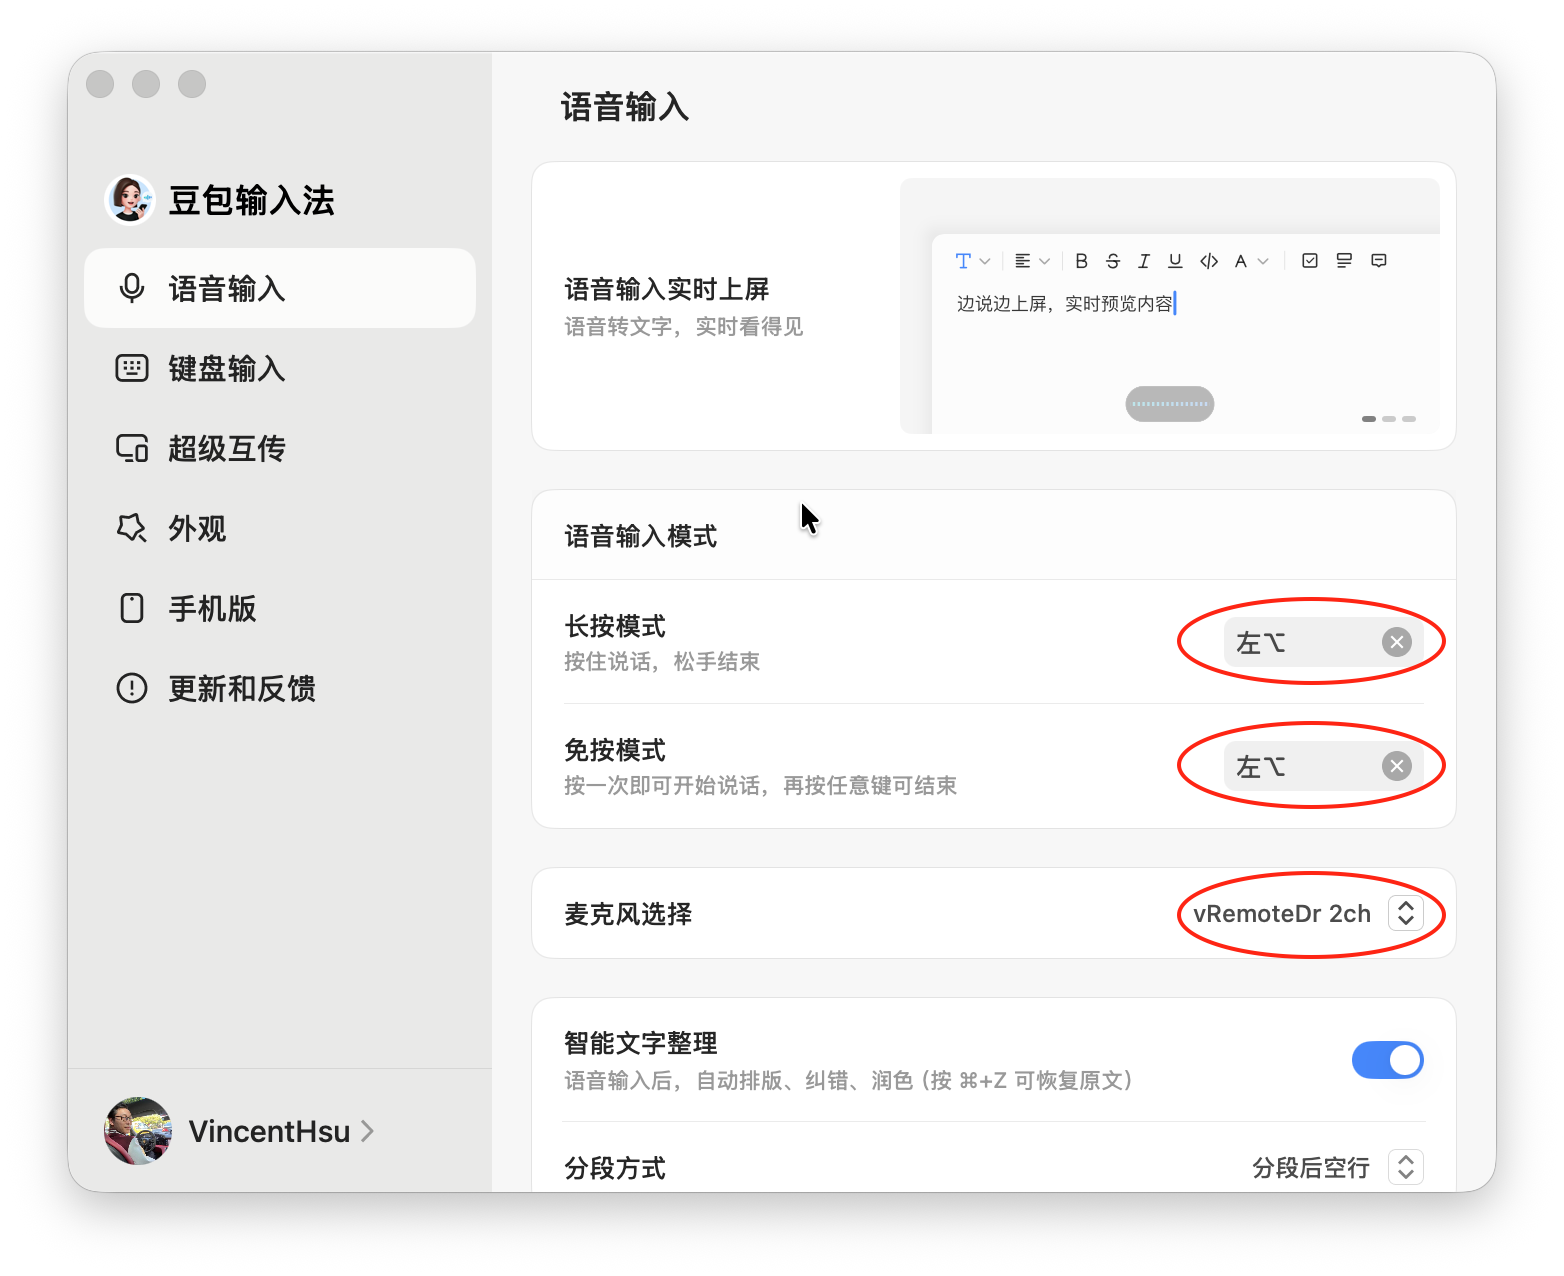
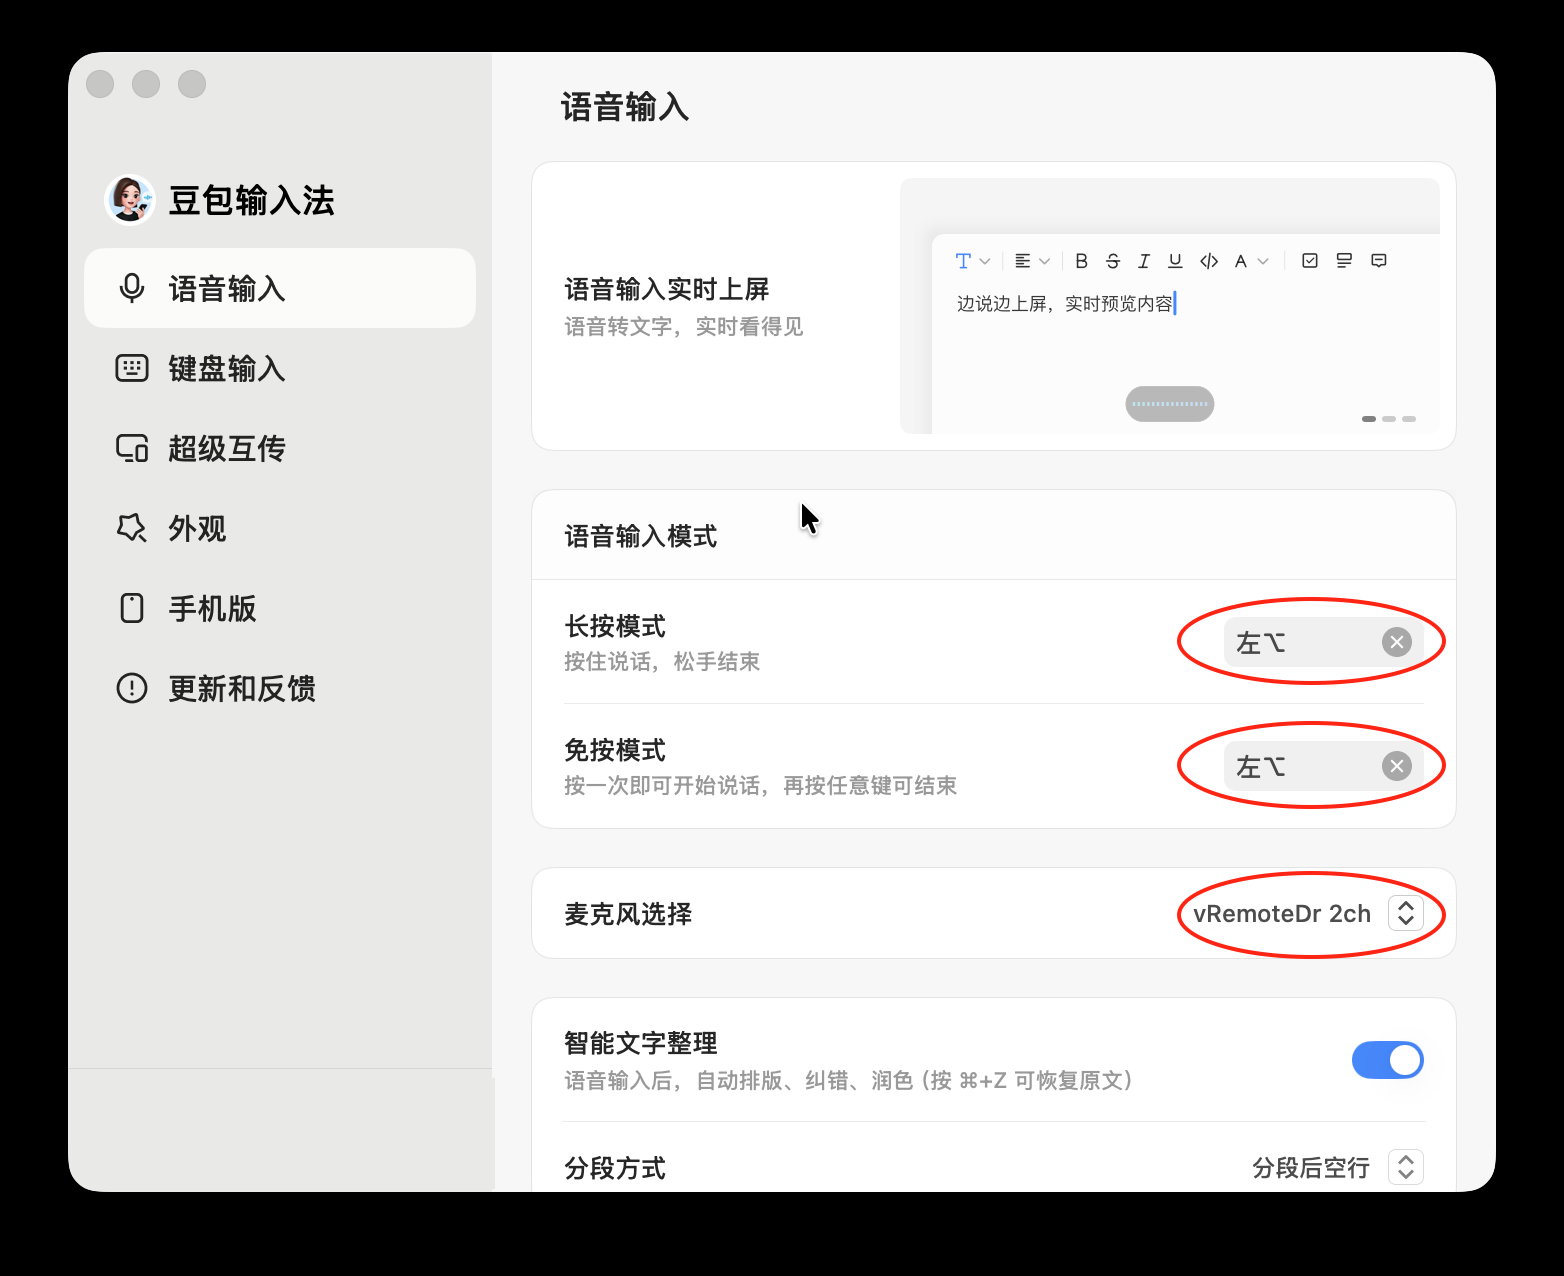
Site v2: full redesign per impeccable principles
- Aurora glow anchored to hero screenshot (content-relative, not viewport)
- System actions promoted to its own section (peak brightness band)
- Release copy de-coupled from power button
- Guide image doubaoinput3: login info removed, order fixed
- Glowing screenshot cards site-wide (green 20% border + 8% glow)

Changed region(s): [[0.0, 0.0, 1.0, 1.0]]

diff --git a/docs/index.html b/docs/index.html
@@ -14,6 +14,7 @@
     <a class="brand" href="#top" aria-label="vRemoter"><img src="assets/brand/vremoter-logo.png" alt=""><span>vRemoter</span></a>
     <nav class="top-actions" aria-label="Primary">
       <a href="#mapping" data-zh="按键映射" data-en="Key Mapping">按键映射</a>
+      <a href="#actions" data-zh="系统动作" data-en="System Actions">系统动作</a>
       <a href="#setup" data-zh="设置" data-en="Setup">设置</a>
       <a href="#release" data-zh="本次更新" data-en="What’s New">本次更新</a>
       <a href="https://github.com/VincentKingHsu/vRemoter" target="_blank" rel="noopener" data-zh="GitHub 源码 ↗" data-en="GitHub Source ↗">GitHub 源码 ↗</a>
@@ -23,7 +24,9 @@
   </header>
 
   <main id="top">
-    <section class="hero section-inner">
+    <section class="hero-band">
+      <div class="aurora" aria-hidden="true"></div>
+      <section class="hero section-inner">
       <div class="hero-copy">
         <p class="eyebrow">vRemoter 1.2.3 · macOS</p>
         <h1 data-zh="沙发上的遥控器，帮你把话说完。" data-en="The remote on your sofa finishes your sentences for you.">沙发上的遥控器，帮你把话说完。</h1>
@@ -38,6 +41,7 @@
         <img data-localized-audio src="assets/screenshots/vremoter-audio-1.2.3.png" alt="vRemoter 1.2.3 界面截图">
         <figcaption data-zh="真实运行界面：麦克风、连接与权限状态一览" data-en="The real interface: microphones, connections, and permissions at a glance">真实运行界面：麦克风、连接与权限状态一览</figcaption>
       </figure>
+      </section>
     </section>
 
     <section class="mapping-band" id="mapping">
@@ -51,16 +55,40 @@
             <li data-zh="任何组合键都能自己录一段，办公软件里最常用的那种" data-en="Record any key combination yourself—the shortcuts your work apps need">任何组合键都能自己录一段，办公软件里最常用的那种</li>
             <li data-zh="设置认型号不认设备，丢了换一只同款照样接着用" data-en="Settings follow the model, so a same-model replacement just works">设置认型号不认设备，丢了换一只同款照样接着用</li>
           </ul>
-          <div class="actions-block">
-            <p class="eyebrow" data-zh="1.2.3 新增 · 系统级动作" data-en="New in 1.2.3 · System actions">1.2.3 新增 · 系统级动作</p>
-            <p class="actions-note" data-zh="电源键从此有了正经工作：锁屏、睡眠、切换应用，随便指。看片累了按一下锁屏，起身倒水按一下睡眠；切换应用和真键盘 ⌘Tab 手感一致——连着按逐个挑，停手一秒就落地。" data-en="The power button gets a real job: Lock, Sleep, and App Switching. One tap locks the screen, one tap sleeps the Mac, and app switching feels exactly like ⌘Tab—keep tapping to browse, pause one second to land.">电源键从此有了正经工作：锁屏、睡眠、切换应用，随便指。看片累了按一下锁屏，起身倒水按一下睡眠；切换应用和真键盘 ⌘Tab 手感一致——连着按逐个挑，停手一秒就落地。</p>
-            <img class="actions-crop" data-localized-actions src="assets/screenshots/vremoter-system-actions-1.2.3.png" alt="系统级动作菜单选项">
-          </div>
         </div>
         <figure class="app-shot mapping-shot">
           <img data-localized-mapping src="assets/screenshots/vremoter-mapping-chromecast-1.2.3.png" alt="Chromecast Voice Remote 按键映射界面">
           <figcaption data-zh="Chromecast Voice Remote 按键映射" data-en="Chromecast Voice Remote key mapping">Chromecast Voice Remote 按键映射</figcaption>
         </figure>
+      </div>
+    </section>
+
+    <section class="actions-band" id="actions">
+      <div class="aurora aurora-peak" aria-hidden="true"></div>
+      <div class="section-inner actions-layout">
+        <figure class="app-shot actions-shot">
+          <img data-localized-actions src="assets/screenshots/vremoter-system-actions-1.2.3.png" alt="系统级动作菜单选项">
+          <figcaption data-zh="映射菜单里的系统级动作选项，任意按键都能指过去" data-en="System actions in the mapping menu—assign them to any button">映射菜单里的系统级动作选项，任意按键都能指过去</figcaption>
+        </figure>
+        <div class="actions-copy">
+          <p class="eyebrow" data-zh="1.2.3 新增 · 系统级动作" data-en="New in 1.2.3 · System actions">1.2.3 新增 · 系统级动作</p>
+          <h2 data-zh="锁屏、睡眠、切换应用——随意设置。" data-en="Lock, Sleep, App Switching—map any button you like.">锁屏、睡眠、切换应用——随意设置。</h2>
+          <p data-zh="任意遥控器按键都能指定为系统级动作，映射菜单里两下就配好。" data-en="Assign any remote button to a system action—it takes two clicks in the mapping menu.">任意遥控器按键都能指定为系统级动作，映射菜单里两下就配好。</p>
+          <div class="action-cards">
+            <div class="action-card">
+              <span class="action-icon" aria-hidden="true"><svg width="20" height="20" viewBox="0 0 24 24" fill="none" stroke="currentColor" stroke-width="2" stroke-linecap="round" stroke-linejoin="round"><rect x="4" y="11" width="16" height="9" rx="2"/><path d="M8 11V7a4 4 0 0 1 8 0v4"/></svg></span>
+              <div><h3 data-zh="锁屏" data-en="Lock">锁屏</h3><p data-zh="起身就走，按一下立刻锁屏。" data-en="Get up and go—one tap locks the screen.">起身就走，按一下立刻锁屏。</p></div>
+            </div>
+            <div class="action-card">
+              <span class="action-icon" aria-hidden="true"><svg width="20" height="20" viewBox="0 0 24 24" fill="none" stroke="currentColor" stroke-width="2" stroke-linecap="round" stroke-linejoin="round"><path d="M21 12.8A9 9 0 1 1 11.2 3 7 7 0 0 0 21 12.8z"/></svg></span>
+              <div><h3 data-zh="睡眠" data-en="Sleep">睡眠</h3><p data-zh="整台 Mac 安静下来，明早再战。" data-en="The whole Mac quiets down, ready for tomorrow.">整台 Mac 安静下来，明早再战。</p></div>
+            </div>
+            <div class="action-card">
+              <span class="action-icon" aria-hidden="true"><svg width="20" height="20" viewBox="0 0 24 24" fill="none" stroke="currentColor" stroke-width="2" stroke-linecap="round" stroke-linejoin="round"><rect x="3" y="3" width="12" height="12" rx="2"/><rect x="9" y="9" width="12" height="12" rx="2"/></svg></span>
+              <div><h3 data-zh="切换应用" data-en="App Switching">切换应用</h3><p data-zh="⌘Tab 手感，连按挑选，停手一秒落地。" data-en="⌘Tab feel: keep tapping to browse, pause one second to land.">⌘Tab 手感，连按挑选，停手一秒落地。</p></div>
+            </div>
+          </div>
+        </div>
       </div>
     </section>
 
@@ -110,8 +138,8 @@
           <figure><img src="assets/guides/permission-accessibility.png" alt="辅助功能权限"><figcaption data-zh="辅助功能" data-en="Accessibility">辅助功能</figcaption></figure>
           <figure><img src="assets/guides/permission-input-monitoring.png" alt="输入监控权限"><figcaption data-zh="输入监控" data-en="Input Monitoring">输入监控</figcaption></figure>
           <figure><img src="assets/guides/permission-bluetooth.png" alt="蓝牙权限"><figcaption data-zh="蓝牙" data-en="Bluetooth">蓝牙</figcaption></figure>
-          <figure><img src="assets/guides/doubaoinput2.png" alt="豆包麦克风选择"><figcaption data-zh="豆包输入设备" data-en="Doubao input device">豆包输入设备</figcaption></figure>
           <figure><img src="assets/guides/doubaoinput3.png" alt="豆包输入法设置引导"><figcaption data-zh="按图完成设置" data-en="Finish as shown">按图完成设置</figcaption></figure>
+          <figure><img src="assets/guides/doubaoinput2.png" alt="豆包麦克风选择"><figcaption data-zh="豆包输入设备" data-en="Doubao input device">豆包输入设备</figcaption></figure>
         </div>
       </div>
     </section>
@@ -119,11 +147,11 @@
     <section class="section-inner release-section" id="release">
       <div class="release-copy">
         <p class="eyebrow" data-zh="版本 1.2.3" data-en="Version 1.2.3">版本 1.2.3</p>
-        <h2 data-zh="遥控器电源键，从此管你的 Mac。" data-en="Your remote's power button now runs your Mac.">遥控器电源键，从此管你的 Mac。</h2>
+        <h2 data-zh="一个按键，管起整台 Mac。" data-en="One button now runs your whole Mac.">一个按键，管起整台 Mac。</h2>
         <a class="primary-button inline-button" href="https://updates.vincentstudio.org/vremoter/" data-zh="查看更新日志与下载" data-en="View release notes and downloads">查看更新日志与下载</a>
       </div>
       <ul class="release-list">
-        <li data-zh="新增系统级锁屏、睡眠、切换应用：电源键看片累了按一下锁屏，起身倒水按一下睡眠" data-en="System-level lock, sleep, and app switching: map your remote's power button to any of them">新增系统级锁屏、睡眠、切换应用：电源键看片累了按一下锁屏，起身倒水按一下睡眠</li>
+        <li data-zh="新增系统级锁屏、睡眠、切换应用：任意按键都能指过去，看片累了按一下锁屏，起身倒水按一下睡眠" data-en="System-level lock, sleep, and app switching: assign any button you like">新增系统级锁屏、睡眠、切换应用：任意按键都能指过去，看片累了按一下锁屏，起身倒水按一下睡眠</li>
         <li data-zh="切换应用和真键盘 ⌘Tab 手感一致：单击切上一个，连按逐个挑，停手一秒就落地" data-en="App switching feels exactly like ⌘Tab: tap once to go back, keep tapping to browse, pause one second to land">切换应用和真键盘 ⌘Tab 手感一致：单击切上一个，连按逐个挑，停手一秒就落地</li>
         <li data-zh="双路麦克风的静音与独奏合并成一个拨动开关，开就是参与，关就是闭麦" data-en="The mute and solo buttons for both microphones are now one clear toggle each">双路麦克风的静音与独奏合并成一个拨动开关，开就是参与，关就是闭麦</li>
         <li data-zh="豆包输入法向导新增第 5 步引导图，照着设一次就能用" data-en="The Doubao setup guide gained a fifth step, so first-time setup just works">豆包输入法向导新增第 5 步引导图，照着设一次就能用</li>

diff --git a/docs/styles.css b/docs/styles.css
@@ -69,7 +69,13 @@ p { color: var(--secondary); line-height: 1.72; }
 .download-button { padding: 10px 14px; }
 .primary-button { min-height: 48px; padding: 0 20px; }
 
+/* hero 外层全宽带：光晕挂在这一层，延伸到视口边缘而不是内容容器边界 */
+.hero-band {
+  position: relative;
+  overflow: hidden;
+}
 .hero {
+  position: relative;
   min-height: calc(100vh - 68px);
   padding-block: 76px 94px;
   display: grid;
@@ -77,6 +83,40 @@ p { color: var(--secondary); line-height: 1.72; }
   gap: 58px;
   align-items: center;
 }
+/* P1 Aurora 光晕：纯 CSS 绿色氛围，跟随品牌绿 */
+.aurora {
+  position: absolute;
+  inset: 0;
+  overflow: hidden;
+  pointer-events: none;
+  z-index: 0;
+}
+.aurora::before,
+.aurora::after {
+  content: "";
+  position: absolute;
+  border-radius: 50%;
+  filter: blur(90px);
+}
+.aurora::after {
+  width: 560px; height: 440px;
+  bottom: -260px;
+  left: calc(50% - 740px);
+  background: radial-gradient(closest-side, rgba(85, 216, 140, .12), transparent 70%);
+}
+/* 右上主光：直接锚在 hero 截图卡上，横纵都随卡片，任何视口下都在卡右上角背后 */
+.hero-shot { position: relative; }
+.hero-shot::before {
+  content: "";
+  position: absolute;
+  z-index: -1;
+  width: 720px; height: 560px;
+  top: -240px; right: -190px;
+  border-radius: 50%;
+  filter: blur(90px);
+  background: radial-gradient(closest-side, rgba(85, 216, 140, .2), transparent 70%);
+}
+.hero-band > :not(.aurora) { position: relative; z-index: 1; }
 .eyebrow { margin-bottom: 14px; color: var(--green); font-size: 12px; font-weight: 800; letter-spacing: .09em; text-transform: uppercase; }
 h1 { max-width: 680px; margin-bottom: 24px; font-size: clamp(44px, 5vw, 67px); line-height: 1.02; letter-spacing: -.045em; }
 h2 { margin-bottom: 18px; font-size: clamp(32px, 3.5vw, 47px); line-height: 1.08; letter-spacing: -.035em; }
@@ -86,11 +126,12 @@ h3 { margin-bottom: 8px; font-size: 18px; }
 .secondary-link { color: var(--green); font-weight: 700; }
 .system-note { margin: 17px 0 0; font-size: 12px; }
 .app-shot { margin: 0; }
+/* P2 辉光截图卡：绿 20% 边框 + 绿 8% 外发光 */
 .app-shot img {
   width: 100%;
-  border: 1px solid var(--line);
+  border: 1px solid rgba(85, 216, 140, .2);
   border-radius: 14px;
-  box-shadow: 0 30px 90px rgba(0, 0, 0, .38);
+  box-shadow: 0 0 60px rgba(85, 216, 140, .08), 0 30px 90px rgba(0, 0, 0, .38);
 }
 figcaption { margin-top: 11px; color: var(--secondary); font-size: 11px; }
 
@@ -154,16 +195,57 @@ figcaption { margin-top: 11px; color: var(--secondary); font-size: 11px; }
 .remote-card .card-tagline { font-size: 12px; }
 .boundary-note { max-width: 920px; margin: 20px 0 0; font-size: 12px; }
 .tech-detail { max-width: 920px; margin: 6px 0 0; color: var(--muted); font-size: 11px; opacity: .72; }
-/* 系统级动作展示块：文案 + 菜单特写横条（原比例，禁止拉伸） */
-.actions-block { margin-top: 30px; }
-.actions-note { font-size: 13.5px; line-height: 1.7; }
-.actions-crop {
-  width: 100%;
-  max-width: 464px;
-  margin-top: 16px;
-  border: 1px solid var(--line);
-  border-radius: 12px;
+/* 系统级动作独立区：滚动中的 peak，全站最亮的氛围处理 */
+.actions-band {
+  position: relative;
+  overflow: hidden;
+  border-block: 1px solid rgba(85, 216, 140, .16);
+  background: linear-gradient(180deg, #0b110d, #080c09);
 }
+.aurora-peak::before {
+  width: 820px; height: 600px;
+  top: -160px; left: 50%;
+  margin-left: -410px;
+  background: radial-gradient(closest-side, rgba(85, 216, 140, .2), transparent 70%);
+}
+.aurora-peak::after {
+  width: 520px; height: 400px;
+  bottom: -200px; right: -140px;
+  background: radial-gradient(closest-side, rgba(85, 216, 140, .12), transparent 70%);
+}
+.actions-layout {
+  position: relative;
+  z-index: 1;
+  padding-block: 108px;
+  display: grid;
+  grid-template-columns: minmax(360px, .9fr) minmax(420px, 1.1fr);
+  gap: 72px;
+  align-items: center;
+}
+.actions-shot img { max-width: 464px; }
+.actions-copy > p:not(.eyebrow) { max-width: 500px; }
+.action-cards { margin-top: 30px; display: grid; gap: 12px; }
+.action-card {
+  display: flex;
+  gap: 16px;
+  align-items: flex-start;
+  padding: 18px 20px;
+  border: 1px solid rgba(85, 216, 140, .18);
+  border-radius: 12px;
+  background: rgba(85, 216, 140, .05);
+}
+.action-card .action-icon {
+  flex: 0 0 auto;
+  width: 40px; height: 40px;
+  display: grid;
+  place-items: center;
+  border: 1px solid rgba(85, 216, 140, .25);
+  border-radius: 10px;
+  background: rgba(85, 216, 140, .12);
+  color: var(--green);
+}
+.action-card h3 { margin-bottom: 4px; font-size: 16px; }
+.action-card p { margin-bottom: 0; font-size: 13px; line-height: 1.6; }
 
 .voice-band { background: #08090a; }
 .voice-layout { padding-block: 108px; display: grid; grid-template-columns: .86fr 1.14fr; gap: 72px; align-items: start; }
@@ -211,13 +293,17 @@ footer { border-top: 1px solid var(--line); }
   .top-actions > a:not(.download-button) { display: none; }
   .hero,
   .mapping-layout,
+  .actions-layout,
   .voice-layout,
   .release-section,
   .support-layout { grid-template-columns: 1fr; }
   .hero { min-height: 0; padding-block: 68px 82px; }
   .hero-copy { max-width: 720px; }
   .mapping-layout,
+  .actions-layout,
   .voice-layout { gap: 42px; }
+  .actions-shot img { max-width: 100%; }
+  .hero-shot::before { right: -120px; opacity: .7; }
   .section-heading-row { grid-template-columns: 1fr; gap: 10px; }
   .section-heading-row > p { justify-self: start; }
   .guide-grid { grid-template-columns: repeat(3, minmax(0, 1fr)); }
@@ -235,6 +321,7 @@ footer { border-top: 1px solid var(--line); }
   .hero,
   .mapping-layout,
   .remote-section,
+  .actions-layout,
   .voice-layout,
   .guide-band .section-inner,
   .release-section,

diff --git a/DevDocs/SITE-REDESIGN-PLAN.md b/DevDocs/SITE-REDESIGN-PLAN.md
@@ -1,0 +1,70 @@
+# 官网整站改版方案（基于 impeccable 原则 + motionsites 风格方向）
+
+> 状态：**proposal 待大徐老师拍板**。拍板后在 `vibecoding/website-v2/` 副本实施，本地预览审过再上服务器。
+> 铁律：只改 UI；`app.js` 语言切换、下载链接、releases.json 接口零改动。
+
+## 一、诊断依据（impeccable = pbakaus/impeccable）
+
+原则出处：`skill/reference/layout.md`、`polish.md`、`bolder.md`。
+
+1. **拓扑匹配内容**（layout.md "Does the topology match the content?"）：一个区只装一个主题。映射区塞两个主题 = 1.2.3 上线后"怪胎感"的根源。
+2. **Squint test**：眯眼主次有序。hero 区左文高度匹配右图 = 全站标杆节奏。
+3. **Rhythm**：图文方向行间交替（Z 形），间隔松紧成节奏。
+4. **Amplify what the system already owns**（bolder.md）：灯光效果只用品牌绿放大，不发明新颜色。
+5. **Give it its own rhythm**（bolder.md）：系统级动作区作为滚动中的 peak，用一次更亮的处理。
+
+## 二、逐区处置
+
+| 区块 | 处置 | 说明 |
+|---|---|---|
+| Hero | 微调 | 结构保持；加 aurora 光晕 + 辉光截图卡 |
+| 按键映射 | 瘦身 | 移除系统级动作内容，恢复纯映射主题（左文右大图） |
+| **系统级动作（新）** | 新增独立区 | 映射区之后；文案纠偏：不提电源键，任何键都可映射 |
+| 双麦语音 | 保持 | 01/02/03 三列卡已符合节奏原则 |
+| 遥控器 | 保持 | 双卡对称 |
+| 设置向导 | 保持 | 五图整齐 |
+| 版本更新 | 微调 | 日志 1.2.3 功能导向精简 |
+| 支持/页脚 | 保持 | — |
+
+## 三、系统级动作区（核心新设计）
+
+位置：映射区之后，逻辑顺承（键→快捷键 → 键→系统动作）。
+
+布局（镜像行，Z 形）：
+```
+左：菜单特写图 vremoter-system-actions-1.2.3(-en).png（464×308 原比例）
+右：eyebrow「1.2.3 新增」+ H2 + 一句话 + 三张动作卡（竖排，复用 voice-modes 卡样式）
+```
+
+文案（纠偏版）：
+- H2：**锁屏、睡眠、切换应用——都从沙发出发。**
+- 一句话：任意遥控器按键都能指定为系统级动作，映射菜单里两下就配好。
+- 三卡：
+  - 锁屏 · 起身就走，按一下立刻锁屏
+  - 睡眠 · 整台 Mac 安静下来，明早再战
+  - 切换应用 · ⌘Tab 手感，连按挑选，停手一秒落地
+
+本区作为滚动 peak，用全站最亮的氛围处理。
+
+## 四、视觉氛围提案（绿黑不变）
+
+| 编号 | 提案 | 建议 |
+|---|---|---|
+| P1 | Aurora 光晕：hero + 系统级动作区背景，两团绿色 radial 光晕（纯 CSS，opacity 0.12~0.2） | 强烈建议 |
+| P2 | 辉光截图卡：界面截图加绿 20% 边框 + 60px 绿 8% 外发光 | 建议，与 P1 配套 |
+| P3 | hero 细网格背景（白 3%） | 可选 |
+| P4 | H1 关键词绿→白渐变文字 | 可选 |
+| P5 | 3D/粒子（motionsites 3D 路线） | 不建议，违背静态轻量原则 |
+
+## 五、素材盘点
+
+不缺图：界面截图 ×4（中英）、菜单特写 ×2、引导图 ×6、遥控器图 ×2。动作卡用图标（SVG/字符）。
+
+Optional：X6 + Chromecast 双遥控器合影横图（用户可拍），不阻塞。
+
+## 六、实施流程
+
+1. `vibecoding/website-v2/` = 现 `vRemote/docs/` 全量副本
+2. 副本上改 → 本地 8899 预览 → 大徐老师审
+3. 通过 → 同步回 `vRemote/docs/` → 既有部署流程（备份→哈希→公网复验）
+4. 接口零改动清单：app.js 语言切换逻辑、所有 https 链接、releases.json/commerce.json 引用
